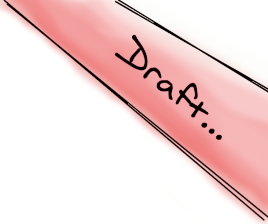
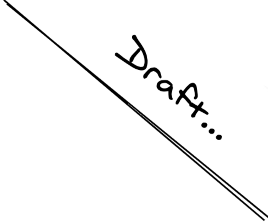
Update color pallette

diff --git a/website/themes/economicallywoke_v1/static/css/main.css b/website/themes/economicallywoke_v1/static/css/main.css
@@ -6,7 +6,7 @@ html {
 }
 
 body {
-    background-color: #FAFAFA;
+    background-color: #FDFDFD;
     color: #3c3c3c;
     font-family: "Source Sans Pro", sans-serif;
     height: 100%;
@@ -34,11 +34,12 @@ body {
 }
 
 a {
-    color: #EB5757;
+    color: #374D9E;
 }
 
 a:hover {
     color: #EB5757;
+    text-decoration: none;
 }
 
 #content img {
@@ -103,7 +104,7 @@ Splash
 
 #splash {
     text-align: center;
-    background-color: #F3F1E7;
+    background-color: #F2F5F8;
     overflow: hidden;
     min-height: 100vh;
     display: flex;
@@ -155,7 +156,7 @@ Sections
 ---------------------------------------------------------------------------- */
 
 #sections {
-    background-color: #F3F1E7;
+    background-color: #F2F5F8;
     overflow: auto;
 }
 
@@ -191,7 +192,7 @@ Page link
 
 .pagelink {
     margin: 1rem;
-    background-color: rgba(255, 255, 255, 0.33);
+    background-color: rgba(256, 256, 256, 0.5);
     border-radius: 5px;
     padding: 40px;
     padding-top: 20px;
@@ -202,7 +203,7 @@ Page link
 
 .pagelink:hover {
     text-decoration: none;
-    background-color: rgba(255, 255, 255, 0.75);
+    background-color: rgba(255, 255, 255, 0.9);
 }
 
 .pagelink:hover .pagelink-title {
@@ -295,7 +296,7 @@ Page
     padding-bottom: 10rem;
     margin-bottom: 5rem;
     text-align: center;
-    background-color: #F3F1E7;
+    background-color: #F2F5F8;
 }
 
 #page_header img {
@@ -393,36 +394,13 @@ Footer
 ---------------------------------------------------------------------------- */
 
 footer {
-    background-color: #F3F1E7;
+    background-color: #F2F5F8;
     text-align: center;
     padding-top: 1rem;
     padding-bottom: 1rem;
     font-weight: 300;
     font-size: 0.8rem;
 }
-
-.footer-signup {
-    background-color: #b9d6f2;
-    color: #003559;
-    padding-top: 8rem;
-    padding-bottom: 8rem;
-    margin-top: 4rem;
-}
-
-.footer-signup .callout {
-    font-size: 3em;
-    font-weight:700;
-    margin-bottom: 20pt;
-    display: block;
-    text-align: center;
-}
-
-.footer-signup .subcallout {
-    font-size: 1.5em;
-    font-weight: 300;
-    display: block;
-}
-
 
 /* ----------------------------------------------------------------------------
 Signup form
@@ -456,17 +434,14 @@ Signup form
     padding-bottom: 10px;
     height: 50px;
     border: 0px;
-    border-bottom: 1px solid #3c3c3c;
-    background-color: transparent;
+    background-color: #F2F5F8;
     font-weight: 100;
-    border-radius: 0px;
+    border-radius: 40px;
 }
 
 .signup .form-control:focus {
     border: 0px solid transparent;
-    box-shadow: 0px 0px 0px 1px #3c3c3c;
-    border-radius: 5px;
-    
+    box-shadow: 0px 0px 0px 1px #6083A9;
 }
 
 .signup .form-control::placeholder {
@@ -479,25 +454,29 @@ Signup form
     padding-right: 20px;
     padding-top: 10px;
     padding-bottom: 10px;
-    margin-left: 10px;
     height: 50px;
     font-weight: 400;
     font-size: 1.2em;
-    background-color: transparent;
-    border: 1px solid #EB5757;
-    color: #EB5757;
+    background-color: #86A776;
+    border: 1px solid #86A776;
+    color: white;
     border-radius: 2px;
-    border-radius: 5px;
+    border-radius: 40px;
+    margin-top: 2.5rem;
+    margin-right: auto;
+    margin-left: auto;
 }
 
 .signup button:hover {
-    background-color: #EB5757;
-    border: 1px solid #EB5757;
+    background-color: #607854;
+    border: 1px solid #607854;
 }
 
 .signup .signup-form {
     justify-content: center;
+    align-items: center;
     display: flex;
+    flex-direction: column;
 }
 
 @media (max-width:450px) {
@@ -506,13 +485,7 @@ Signup form
     }
 
     .signup button {
-        margin-left: 0px;
-        margin-top: 40px;
         font-size: 1.5em;
-    }
-
-    .signup .signup-form {
-        flex-direction: column;
     }
 }
 
